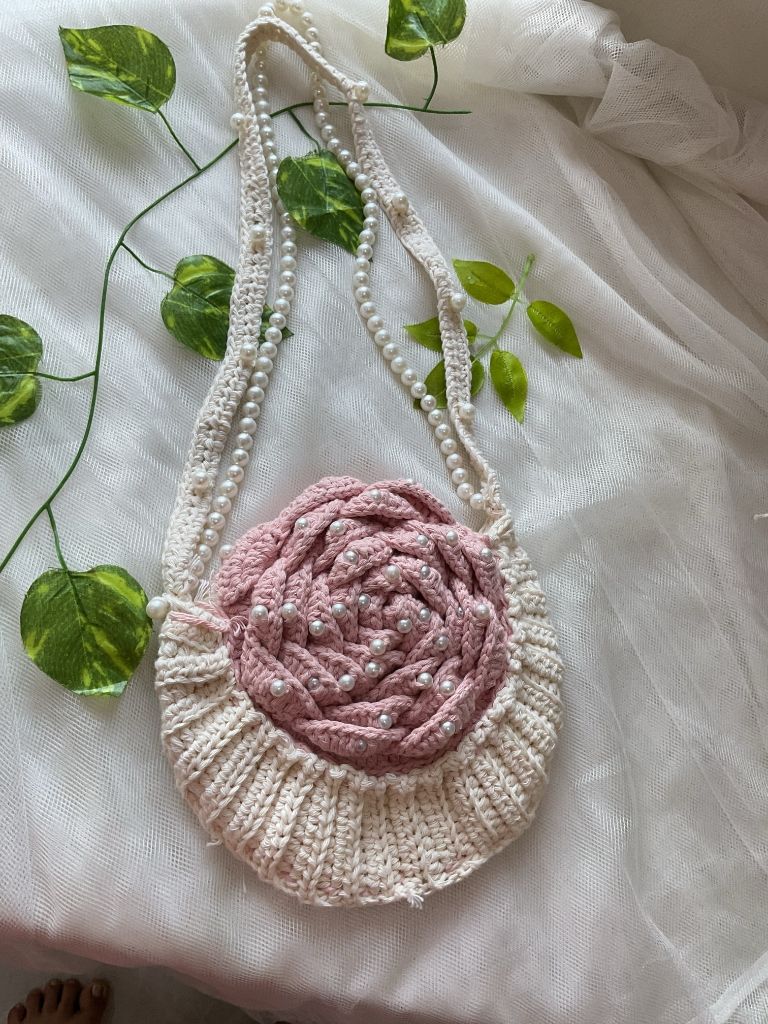
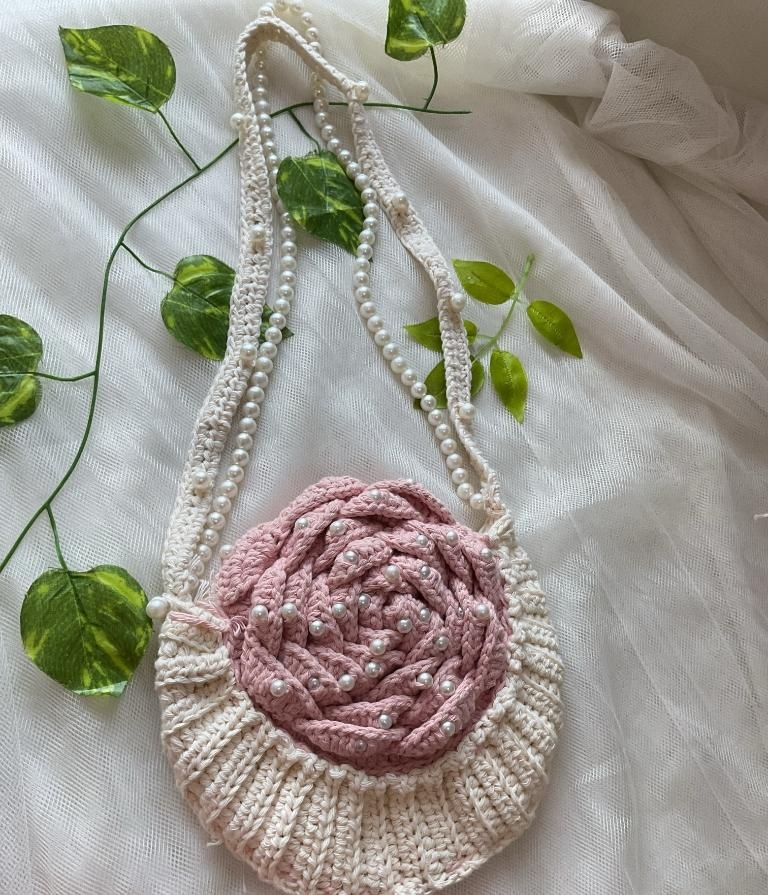
Crop and professionalize Rose Pearl Bag images to remove toes and floor shadows

diff --git a/collections.html b/collections.html
@@ -10,7 +10,7 @@
     <link rel="preconnect" href="https://fonts.googleapis.com">
   <link rel="preconnect" href="https://fonts.gstatic.com" crossorigin>
   <link href="https://fonts.googleapis.com/css2?family=Ribeye&display=swap" rel="stylesheet">
-  <link rel="stylesheet" href="styles.css?v=1.27">
+  <link rel="stylesheet" href="styles.css?v=1.28">
   <style>
     .product-card {
       transition: transform 0.4s ease, box-shadow 0.4s ease;
@@ -149,7 +149,7 @@
         <div class="product-card glass-panel" data-name="rose pearl crochet sling bag ivory cream pink flower shoulder bag with pearls crossbody 100% cotton thread" data-category="bags" style="padding: 1.5rem; text-align: center;">
           <a href="product.html?id=rose-pearl-crochet-sling-bag" style="display: flex; flex-direction: column; flex-grow: 1; color: inherit; text-decoration: none;">
             <div class="product-image-container" style="position: relative;">
-              <img src="assets/rose-pearl-bag-1.jpg" alt="Rose & Pearl Crochet Sling Bag">
+              <img src="assets/rose-pearl-bag-1.jpg?v=2" alt="Rose & Pearl Crochet Sling Bag">
               <div class="multi-badge">
                 <svg viewBox="0 0 24 24" style="width:14px;height:14px;fill:none;stroke:currentColor;stroke-width:2;"><rect x="3" y="3" width="18" height="18" rx="2" ry="2"/><circle cx="8.5" cy="8.5" r="1.5"/><polyline points="21 15 16 10 5 21"/></svg>
                 2 Photos
@@ -236,7 +236,7 @@
     </div>
   </footer>
 
-  <script src="script.js?v=1.37"></script>
+  <script src="script.js?v=1.38"></script>
   <script type="module" src="firebase-config.js"></script>
 </body>
 </html>

diff --git a/index.html b/index.html
@@ -8,7 +8,7 @@
     <link rel="preconnect" href="https://fonts.googleapis.com">
   <link rel="preconnect" href="https://fonts.gstatic.com" crossorigin>
   <link href="https://fonts.googleapis.com/css2?family=Ribeye&display=swap" rel="stylesheet">
-  <link rel="stylesheet" href="styles.css?v=1.27">
+  <link rel="stylesheet" href="styles.css?v=1.28">
   <style>
       /* Hero specific animation */
     .hero {
@@ -165,7 +165,7 @@
           <div class="product-card glass-panel" style="padding: 1.5rem; text-align: center; overflow: hidden;">
             <a href="product.html?id=rose-pearl-crochet-sling-bag" style="display: block; color: inherit; text-decoration: none;">
               <div style="border-radius: var(--radius-sm); overflow: hidden; margin-bottom: 1.5rem; position: relative;">
-                <img src="assets/rose-pearl-bag-1.jpg" alt="Rose & Pearl Crochet Sling Bag" class="hero-product-img">
+                <img src="assets/rose-pearl-bag-1.jpg?v=2" alt="Rose & Pearl Crochet Sling Bag" class="hero-product-img">
               </div>
               <h3 style="margin-bottom: 0.5rem; font-size: 1.3rem;">Rose & Pearl Crochet Sling Bag</h3>
               <p style="margin-bottom: 1.2rem; display: flex; align-items: center; justify-content: center; gap: 0.5rem;"><span class="discount-price" style="color: var(--primary-dark); font-weight: 700; font-size: 1.22rem;">₹2,649.00</span></p>
@@ -253,7 +253,7 @@
     </div>
   </footer>
 
-  <script src="script.js?v=1.37"></script>
+  <script src="script.js?v=1.38"></script>
   <script type="module" src="firebase-config.js"></script>
 </body>
 </html>

diff --git a/bags.html b/bags.html
@@ -7,7 +7,7 @@
     <link rel="preconnect" href="https://fonts.googleapis.com">
   <link rel="preconnect" href="https://fonts.gstatic.com" crossorigin>
   <link href="https://fonts.googleapis.com/css2?family=Ribeye&display=swap" rel="stylesheet">
-  <link rel="stylesheet" href="styles.css?v=1.27">
+  <link rel="stylesheet" href="styles.css?v=1.28">
   <style>
     
     .product-card {
@@ -111,7 +111,7 @@
         <div class="product-card glass-panel" data-name="rose pearl crochet sling bag ivory cream pink flower shoulder bag with pearls crossbody 100% cotton thread" data-category="bags" style="padding: 1.5rem; text-align: center;">
           <a href="product.html?id=rose-pearl-crochet-sling-bag" style="display: flex; flex-direction: column; flex-grow: 1; color: inherit; text-decoration: none;">
             <div class="product-image-container" style="position: relative;">
-              <img src="assets/rose-pearl-bag-1.jpg" alt="Rose & Pearl Crochet Sling Bag">
+              <img src="assets/rose-pearl-bag-1.jpg?v=2" alt="Rose & Pearl Crochet Sling Bag">
               <div class="multi-badge">
                 <svg viewBox="0 0 24 24" style="width:14px;height:14px;fill:none;stroke:currentColor;stroke-width:2;"><rect x="3" y="3" width="18" height="18" rx="2" ry="2"/><circle cx="8.5" cy="8.5" r="1.5"/><polyline points="21 15 16 10 5 21"/></svg>
                 2 Photos
@@ -205,7 +205,7 @@
     </div>
   </footer>
 
-  <script src="script.js?v=1.37"></script>
+  <script src="script.js?v=1.38"></script>
   <script type="module" src="firebase-config.js"></script>
 </body>
 </html>

diff --git a/auth.html b/auth.html
@@ -8,7 +8,7 @@
     <link rel="preconnect" href="https://fonts.googleapis.com">
   <link rel="preconnect" href="https://fonts.gstatic.com" crossorigin>
   <link href="https://fonts.googleapis.com/css2?family=Ribeye&display=swap" rel="stylesheet">
-  <link rel="stylesheet" href="styles.css?v=1.27">
+  <link rel="stylesheet" href="styles.css?v=1.28">
   <link rel="icon" type="image/png" sizes="32x32" href="favicon.png">
   <link rel="icon" type="image/png" sizes="16x16" href="favicon.png">
   <link rel="shortcut icon" href="favicon.ico">
@@ -208,7 +208,7 @@
     </div>
   </footer>
 
-  <script src="script.js?v=1.37"></script>
+  <script src="script.js?v=1.38"></script>
   <script type="module" src="firebase-config.js"></script>
   <script type="module">
     import { auth, db } from './firebase-config.js';

diff --git a/checkout.html b/checkout.html
@@ -7,7 +7,7 @@
     <link rel="preconnect" href="https://fonts.googleapis.com">
   <link rel="preconnect" href="https://fonts.gstatic.com" crossorigin>
   <link href="https://fonts.googleapis.com/css2?family=Ribeye&display=swap" rel="stylesheet">
-  <link rel="stylesheet" href="styles.css?v=1.27">
+  <link rel="stylesheet" href="styles.css?v=1.28">
   <!-- Razorpay Checkout Gateway SDK & Configuration -->
   <script src="https://checkout.razorpay.com/v1/checkout.js"></script>
   <script src="payment-config.js?v=1.9"></script>
@@ -525,7 +525,7 @@
     </div>
   </footer>
 
-  <script src="script.js?v=1.37"></script>
+  <script src="script.js?v=1.38"></script>
   <script type="module" src="firebase-config.js"></script>
   <script>
     window.selectPaymentMethod = function(method) {

diff --git a/about.html b/about.html
@@ -7,7 +7,7 @@
     <link rel="preconnect" href="https://fonts.googleapis.com">
   <link rel="preconnect" href="https://fonts.gstatic.com" crossorigin>
   <link href="https://fonts.googleapis.com/css2?family=Ribeye&display=swap" rel="stylesheet">
-  <link rel="stylesheet" href="styles.css?v=1.27">
+  <link rel="stylesheet" href="styles.css?v=1.28">
   <link rel="icon" type="image/png" sizes="32x32" href="favicon.png">
   <link rel="icon" type="image/png" sizes="16x16" href="favicon.png">
   <link rel="shortcut icon" href="favicon.ico">
@@ -241,7 +241,7 @@
     </div>
   </footer>
 
-  <script src="script.js?v=1.37"></script>
+  <script src="script.js?v=1.38"></script>
   <script type="module" src="firebase-config.js"></script>
 </body>
 </html>

diff --git a/contact.html b/contact.html
@@ -7,7 +7,7 @@
     <link rel="preconnect" href="https://fonts.googleapis.com">
   <link rel="preconnect" href="https://fonts.gstatic.com" crossorigin>
   <link href="https://fonts.googleapis.com/css2?family=Ribeye&display=swap" rel="stylesheet">
-  <link rel="stylesheet" href="styles.css?v=1.27">
+  <link rel="stylesheet" href="styles.css?v=1.28">
   <link rel="icon" type="image/png" sizes="32x32" href="favicon.png">
   <link rel="icon" type="image/png" sizes="16x16" href="favicon.png">
   <link rel="shortcut icon" href="favicon.ico">
@@ -218,7 +218,7 @@
     </div>
   </footer>
 
-  <script src="script.js?v=1.37"></script>
+  <script src="script.js?v=1.38"></script>
   <script type="module" src="firebase-config.js"></script>
 </body>
 </html>

diff --git a/product.html b/product.html
@@ -7,7 +7,7 @@
     <link rel="preconnect" href="https://fonts.googleapis.com">
   <link rel="preconnect" href="https://fonts.gstatic.com" crossorigin>
   <link href="https://fonts.googleapis.com/css2?family=Ribeye&display=swap" rel="stylesheet">
-  <link rel="stylesheet" href="styles.css?v=1.27">
+  <link rel="stylesheet" href="styles.css?v=1.28">
   <style>
     .size-info-card {
       transition: transform 0.3s ease, box-shadow 0.3s ease;
@@ -145,7 +145,7 @@
     </div>
   </footer>
 
-  <script src="script.js?v=1.37"></script>
+  <script src="script.js?v=1.38"></script>
   <script type="module" src="firebase-config.js"></script>
   <script>
     document.addEventListener('DOMContentLoaded', () => {

diff --git a/policies.html b/policies.html
@@ -7,7 +7,7 @@
     <link rel="preconnect" href="https://fonts.googleapis.com">
   <link rel="preconnect" href="https://fonts.gstatic.com" crossorigin>
   <link href="https://fonts.googleapis.com/css2?family=Ribeye&display=swap" rel="stylesheet">
-  <link rel="stylesheet" href="styles.css?v=1.27">
+  <link rel="stylesheet" href="styles.css?v=1.28">
   <style>
     .policy-container {
       max-width: 1060px;
@@ -423,7 +423,7 @@
     </div>
   </footer>
 
-  <script src="script.js?v=1.37"></script>
+  <script src="script.js?v=1.38"></script>
   <script>
     function switchPolicyTab(tabId) {
       const tabs = ['shipping', 'refunds', 'terms', 'privacy', 'contact'];

diff --git a/taken-collections.html b/taken-collections.html
@@ -8,7 +8,7 @@
   <link rel="preconnect" href="https://fonts.googleapis.com">
   <link rel="preconnect" href="https://fonts.gstatic.com" crossorigin>
   <link href="https://fonts.googleapis.com/css2?family=Ribeye&display=swap" rel="stylesheet">
-  <link rel="stylesheet" href="styles.css?v=1.27">
+  <link rel="stylesheet" href="styles.css?v=1.28">
   <style>
     .product-card {
       transition: transform 0.4s ease, box-shadow 0.4s ease;
@@ -287,7 +287,7 @@
     </div>
   </footer>
 
-  <script src="script.js?v=1.37"></script>
+  <script src="script.js?v=1.38"></script>
   <script type="module" src="firebase-config.js"></script>
 </body>
 </html>

diff --git a/hair-accessories.html b/hair-accessories.html
@@ -7,7 +7,7 @@
     <link rel="preconnect" href="https://fonts.googleapis.com">
   <link rel="preconnect" href="https://fonts.gstatic.com" crossorigin>
   <link href="https://fonts.googleapis.com/css2?family=Ribeye&display=swap" rel="stylesheet">
-  <link rel="stylesheet" href="styles.css?v=1.27">
+  <link rel="stylesheet" href="styles.css?v=1.28">
   <style>
     
     .product-card {
@@ -200,7 +200,7 @@
     </div>
   </footer>
 
-  <script src="script.js?v=1.37"></script>
+  <script src="script.js?v=1.38"></script>
   <script type="module" src="firebase-config.js"></script>
 </body>
 </html>

diff --git a/home-decor.html b/home-decor.html
@@ -7,7 +7,7 @@
     <link rel="preconnect" href="https://fonts.googleapis.com">
   <link rel="preconnect" href="https://fonts.gstatic.com" crossorigin>
   <link href="https://fonts.googleapis.com/css2?family=Ribeye&display=swap" rel="stylesheet">
-  <link rel="stylesheet" href="styles.css?v=1.27">
+  <link rel="stylesheet" href="styles.css?v=1.28">
   <style>
     
     .product-card {
@@ -167,7 +167,7 @@
     </div>
   </footer>
 
-  <script src="script.js?v=1.37"></script>
+  <script src="script.js?v=1.38"></script>
   <script type="module" src="firebase-config.js"></script>
 </body>
 </html>
